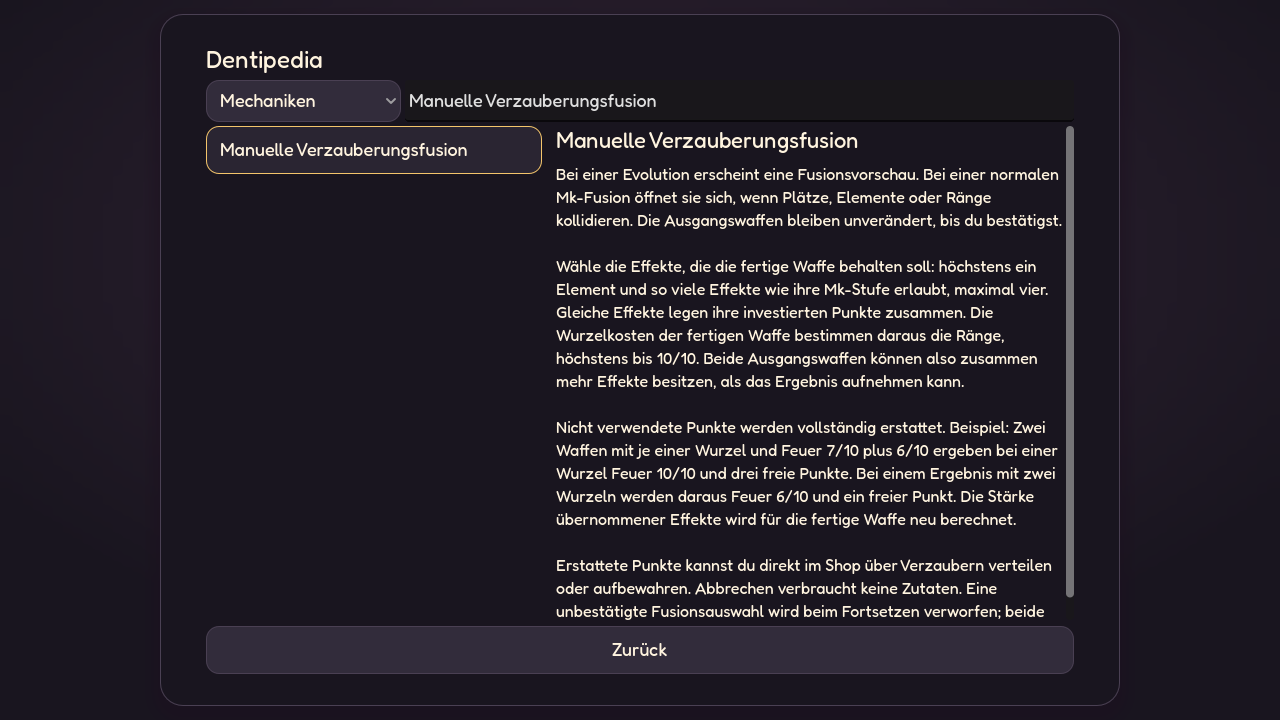
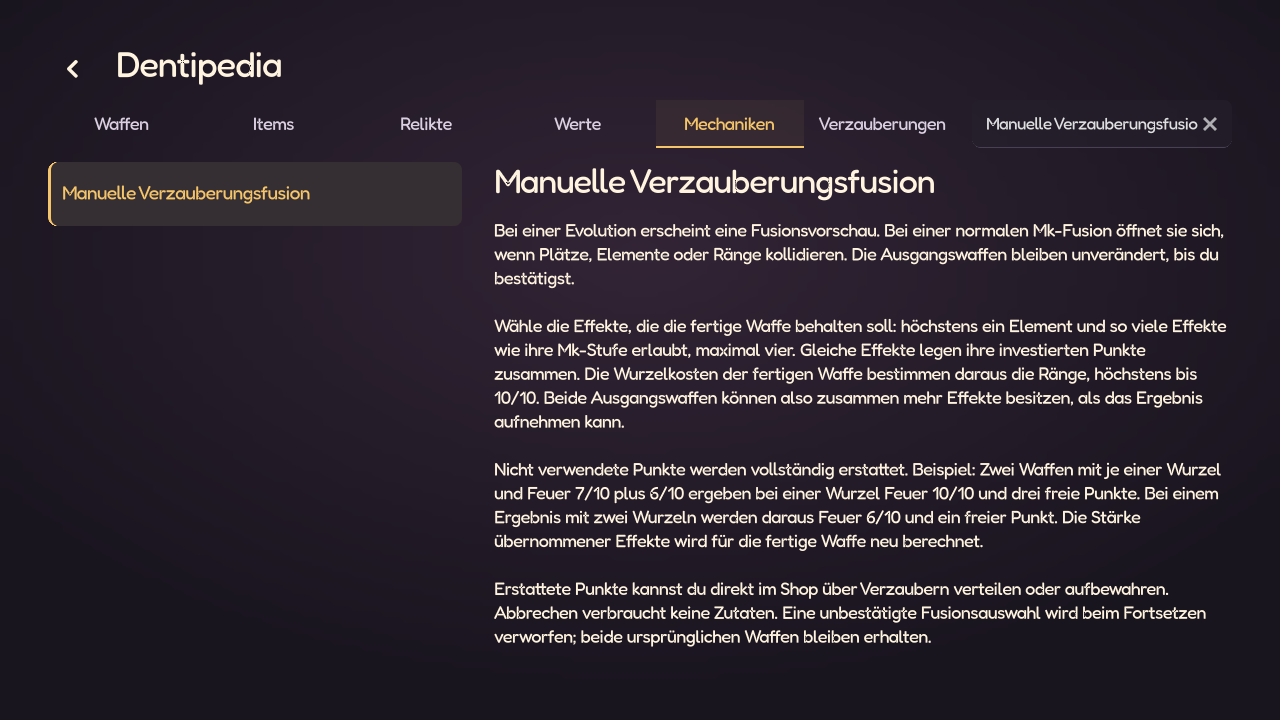
Modernize Dentipedia and compact shop enchant action

Changed region(s): [[0.0312, 0.0611, 0.9688, 0.9472], [0.0625, 0.1528, 0.125, 0.1833]]

diff --git a/docs/DENTIPEDIA.md b/docs/DENTIPEDIA.md
@@ -1,8 +1,17 @@
 # Dentipedia
 
-Stand: 27.10.2026. Das Nachschlagewerk ist im Hauptmenü und über Escape
+Stand: 31.10.2026. Das Nachschlagewerk ist im Hauptmenü und über Escape
 erreichbar. Ein pausierter Kampf bleibt beim Lesen pausiert. Die Suche filtert
 Titel und Text innerhalb des gewählten Bereichs.
+
+Die Dentipedia nutzt die rahmenlose gemeinsame Menüfläche. Alle sechs Bereiche
+sind direkt als Reiter sichtbar; ein Kategorie-Dropdown entfällt. Suche und
+Auswahl bleiben auf einer gemeinsamen Flucht. Auswahlzustand, Hover und
+Tastaturfokus sind getrennt erkennbar. Items behalten ihre Seltenheitskante.
+Waffendetails zeigen größere Bilder und eine kompakte Mk-Tabelle aus denselben
+Ressourcen wie bisher; „Basiswerte“ kennzeichnet den Vergleich ohne Build.
+
+![Rahmenlose Dentipedia mit sichtbaren Kategorien](screenshots/dentipedia_update/weapons_1280x720.png)
 
 - **Waffen:** 18 Standardwaffen mit Spielweise, Skalierung, Effekten und
   Basiswerten Mk I–IV; entdeckte Spezialwaffen ergänzen die Liste.
@@ -52,9 +61,14 @@ Die Formbilder werden über den vorhandenen Skin-Cache geladen.
 
 Die Suche findet die Zahnseiden-Schneide auch unter ihrem früheren Namen
 Garotte. Beim Öffnen eines anderen Eintrags beginnt dessen Text wieder oben.
-Im Hochformat stehen Liste und Details untereinander. Bei nur ein oder zwei
-Suchtreffern benötigt die Liste weniger Höhe; die Formbuttons umbrechen
-innerhalb des Detailbereichs. Kurzes Querformat behält die beiden Spalten.
+Am Desktop stehen Liste und Details nebeneinander. Im schmalen Hochformat
+nimmt die Liste zunächst die ganze Inhaltsfläche ein. Antippen öffnet den
+Eintrag; der Zurück-Pfeil oder Escape führt zuerst zur Liste und anschließend
+zum Menü. Kategorie, Suchtext und Listenposition bleiben beim Zurückgehen
+erhalten. Die Kategorien bleiben sichtbar; auf kleinen Flächen heißt der
+Verzauberungsreiter kurz „Effekte“. Formbuttons umbrechen innerhalb der
+Details und behalten mindestens 48 × 48 Touchfläche. Kurzes Querformat behält
+die beiden Spalten.
 
 Unentdeckte Spezialwaffen zeigen nur ihre schwarze Alpha-Silhouette.
 Namen, Zutaten, Effekte, Werte und Formvorschau bleiben verborgen, bis die
@@ -63,13 +77,16 @@ Verkäufe und Neustarts erhalten. Familienzutaten akzeptieren jede Seltenheit.
 
 ## Prüfung
 
-tests/dentipedia.gd prüft Kataloge, neue Themen, Schriftzeichen, echte
+tests/dentipedia.gd prüft sichtbare Kategorien ohne Dropdown, Touchgrößen,
+rahmenlose Menüintegration, Hochformat-Navigation und Pause sowie Kataloge,
+neue Themen, Schriftzeichen, echte
 Freischaltung, Spoilerschutz, Suche, alle sieben Formbuttons, unveränderte
 Waffenvorlagen, Scrollpositionen und vier Bildschirmgrößen. Menü- und
 Belohnungsansichten werden zusätzlich durch ihre bestehenden Tests geprüft.
 
-tools/preview_dentipedia.gd erzeugt native Ansichten für Fusion, Dash,
-Waffenpunkte, Feuerform und Lebensraub in 1280×720, 360×640 und 568×320.
+tools/preview_dentipedia.gd erzeugt native Ansichten für Waffen-/Itemübersicht,
+Fusion, Dash, Waffenpunkte, Feuerform und Lebensraub in 1280×720, 320×568,
+360×640 und 568×320.
 Die Aufnahmen liegen unter docs/screenshots/dentipedia_update/; das Werkzeug
 verwendet getrennte Sitzungsdateien.
 

diff --git a/CHANGELOG.md b/CHANGELOG.md
@@ -4,6 +4,8 @@ Die Versionsnummer wird zentral in `project.godot` gepflegt und im Hauptmenü an
 
 ## Noch ohne neue Versionsnummer — 27.10.2026
 
+- **Rahmenlose Dentipedia:** sechs direkt sichtbare Kategorien statt Dropdown, ruhigere Eintragsliste und größere Waffenvorschau mit kompakter Mk-Tabelle. Im schmalen Hochformat wechseln Liste und Details; Zurück/Escape bewahren Suche, Listenposition und Spielpause. [Native Ansichten](docs/DENTIPEDIA.md).
+
 - **Imperator als aktiverer Finalboss:** Schnellere, weitreichend angekündigte Urteilsfächer, neu gezielter Portalanschluss und wechselnde Nervenringe/-fächer. Die Wache dreht während der Kernöffnung; Hell erhält vier Wiederholungen. Vollständige Warnungen, kompatibles Fortsetzen und 144 vollständige verlangsamte Ausweichrouten geprüft. [Verhalten und Vergleich](docs/EMPEROR_FINALE.md).
 
 - **König mit mehr Angriffsdruck:** Gezielte Säurefächer während jeder Säurebahn und jedes Pegelwechsels, 3/5/7/9 Tropfen von Easy bis Hell. Auf Hard/Hell setzt er zwischen zwei Stampffolgen nach und erfasst Denti neu. Vollständige feste Warnungen, begrenzte Geschossbatches und kompatibles Fortsetzen. [Verhalten und Messung](docs/KING_ASSAULT.md).
